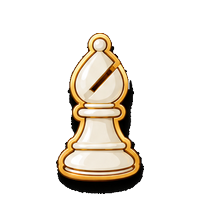
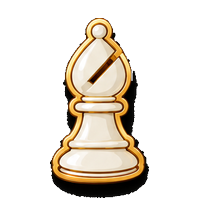
Chess: on phones the board fills the screen width with a thin frame, bigger pieces
Coordinates move inside the edge squares on phones. Pieces are rescaled so the
king fills the square and smaller pieces shrink less than true scale.

Claude-Session: https://claude.ai/code/session_01FtwmVCQqkHfcxQwegzjWAe

Changed region(s): [[0.24, 0.09, 0.75, 0.99]]

diff --git a/chess/index.html b/chess/index.html
@@ -60,7 +60,10 @@
     width:min(84vw,460px);aspect-ratio:1/1;border:8px solid var(--frame);border-radius:3px;overflow:hidden;
     box-shadow:0 6px 18px rgba(90,70,40,.25);}
   .cell{position:relative;display:flex;align-items:center;justify-content:center;cursor:pointer;aspect-ratio:1/1;}
-  .cell img{width:96%;height:96%;display:block;pointer-events:none;-webkit-user-drag:none;user-select:none;}
+  .cell img{width:100%;height:100%;display:block;pointer-events:none;-webkit-user-drag:none;user-select:none;}
+  .cell .co{position:absolute;font-size:9px;font-weight:700;line-height:1;opacity:.75;display:none;pointer-events:none;}
+  .cell .co.rk{left:2px;top:2px;} .cell .co.fl{right:2px;bottom:1px;}
+  .cell.l .co{color:var(--sq-d);} .cell.d .co{color:var(--sq-l);}
   .cell.l{background:var(--sq-l);}
   .cell.d{background:var(--sq-d);}
   .cell.sel{box-shadow:inset 0 0 0 3px rgba(30,90,160,.65);}
@@ -148,6 +151,17 @@
     opacity:0;animation:fadein .5s .55s ease forwards;}
   @keyframes popin{0%{transform:scale(.2);opacity:0;}100%{transform:scale(1);opacity:1;}}
   @keyframes fadein{to{opacity:1;}}
+  /* phones: board fills the screen width, thin frame, coordinates inside the squares (Jason 2026-10-20) */
+  @media (max-width:600px){
+    body{padding:8px 0 16px;align-items:flex-start;}
+    .hd{margin-bottom:8px;} .hd h1{font-size:20px;} .topbar{margin-bottom:8px;}
+    .panel{gap:12px;}
+    .board-wrap{display:block;}
+    .ranks,.files{display:none;}
+    .board{width:calc(100vw - 4px);border-width:2px;border-radius:2px;}
+    .cell .co{display:block;}
+    .side{padding:0 10px;max-width:none;min-width:0;width:100%;}
+  }
 </style>
 </head>
 <body>
@@ -591,7 +605,9 @@ function render(){
       if(isLast&&!isSel)cls+=' last';
       if(isHint)cls+=' hint';
       if(isTarget)cls+=(s.board[r][c]?' capture':' target');
-      html+=`<div class="${cls}" data-r="${r}" data-c="${c}">${p?pieceSVG(p.t,p.c):''}</div>`;
+      // small coordinates inside the edge squares (shown on phones, where the outside labels are hidden)
+      const co=(j===0?`<span class="co rk">${8-r}</span>`:'')+(i===7?`<span class="co fl">${String.fromCharCode(97+c)}</span>`:'');
+      html+=`<div class="${cls}" data-r="${r}" data-c="${c}">${p?pieceSVG(p.t,p.c):''}${co}</div>`;
     } }
   boardEl.innerHTML=html;
   // coordinates respect flip
